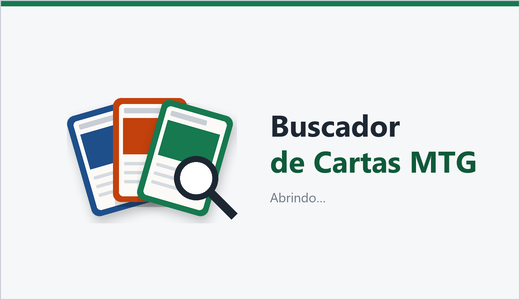
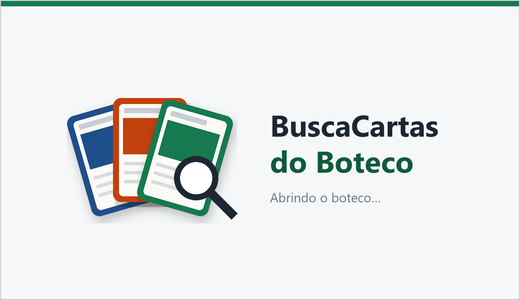
Novo nome: BuscaCartas do Boteco
Título da janela, BuscaCartas.exe, tela de abertura e documentação com o
nome novo. A pasta de dados do .exe passa a ser %APPDATA%\BuscaCartas, com
cópia automática de lojas.json e config.json da pasta antiga BuscadorMTG.

Changed region(s): [[0.5538, 0.48, 0.9231, 0.6], [0.6769, 0.36, 0.8615, 0.48], [0.6154, 0.63, 0.7385, 0.69]]

diff --git a/buscador/web/pagina/app.js b/buscador/web/pagina/app.js
@@ -1,5 +1,5 @@
 "use strict";
-/* Tela do Buscador de Cartas MTG. O Python (buscador/web/ponte.py) faz as buscas; aqui só se
+/* Tela do BuscaCartas do Boteco. O Python (buscador/web/ponte.py) faz as buscas; aqui só se
    desenha a tela e se guarda o estado dela (o que está aberto, histórico Voltar/Avançar).
    Acontecimentos da busca chegam por app.evento(tipo, sid, dados); os de uma busca antiga
    (sid diferente) são ignorados. */

diff --git a/buscador/web/pagina/index.html b/buscador/web/pagina/index.html
@@ -2,7 +2,7 @@
 <html lang="pt-BR">
 <head>
 <meta charset="utf-8">
-<title>Buscador de Cartas MTG</title>
+<title>BuscaCartas do Boteco</title>
 <link rel="stylesheet" href="estilo.css">
 </head>
 <body>

diff --git a/buscador/config.py b/buscador/config.py
@@ -51,17 +51,21 @@ MAX_ITEMS_PER_STORE = 8
 DATA_FILES = ("lojas.json", "config.json")
 
 
-def user_data_dir():
-    """Pasta de dados do usuário no Windows: %APPDATA%/BuscadorMTG."""
+DATA_DIR_NAME = "BuscaCartas"
+OLD_DATA_DIR_NAME = "BuscadorMTG"  # nome da pasta até a versão 1.0.0
+
+
+def user_data_dir(name=DATA_DIR_NAME):
+    """Pasta de dados do usuário no Windows: %APPDATA%/BuscaCartas."""
     base = os.environ.get("APPDATA") or os.path.expanduser("~")
-    return os.path.join(base, "BuscadorMTG")
+    return os.path.join(base, name)
 
 
 def app_dir():
     """Pasta onde o programa guarda lojas.json, config.json e debug/.
 
     - Pelo código-fonte: a pasta do projeto (a de cima de buscador/), como sempre foi.
-    - No .exe (PyInstaller): %APPDATA%/BuscadorMTG. Assim o .exe funciona de qualquer lugar
+    - No .exe (PyInstaller): %APPDATA%/BuscaCartas. Assim o .exe funciona de qualquer lugar
       (Downloads, Área de Trabalho, de dentro de um zip) e as lojas e preferências continuam
       ao trocar por uma versão nova."""
     if getattr(sys, "frozen", False):
@@ -71,8 +75,9 @@ def app_dir():
 
 
 def migrate_from_exe_folder(exe_dir, data_dir):
-    """Até a versão 0.3.0 o .exe guardava lojas.json e config.json ao lado dele. Se a pasta de
-    dados ainda não tem esses arquivos e a pasta do .exe tem, copia (não apaga os antigos)."""
+    """Copia lojas.json e config.json de uma pasta antiga para a pasta de dados, se a pasta de dados
+    ainda não tem esses arquivos (não apaga os antigos). Usada para %APPDATA%/BuscadorMTG (nome
+    antigo, até a 1.0.0) e para a pasta do .exe (até a 0.3.0 os arquivos ficavam ao lado dele)."""
     try:
         os.makedirs(data_dir, exist_ok=True)
         for name in DATA_FILES:
@@ -84,6 +89,7 @@ def migrate_from_exe_folder(exe_dir, data_dir):
 
 
 if getattr(sys, "frozen", False):
+    migrate_from_exe_folder(user_data_dir(OLD_DATA_DIR_NAME), app_dir())
     migrate_from_exe_folder(os.path.dirname(sys.executable), app_dir())
 
 CONFIG_FILE = os.path.join(app_dir(), "lojas.json")

diff --git a/instalador/gerar_exe.py b/instalador/gerar_exe.py
@@ -1,17 +1,17 @@
-"""Gera o programa para Windows (BuscadorMTG.exe), um arquivo único para publicar nas versões do GitHub.
+"""Gera o programa para Windows (BuscaCartas.exe), um arquivo único para publicar nas versões do GitHub.
 
 Uso (na pasta do projeto):
     py -m pip install -r instalador/requirements.txt
     py instalador/gerar_exe.py
 
-Resultado: dist/BuscadorMTG.exe, o arquivo publicado na página de versões do GitHub.
+Resultado: dist/BuscaCartas.exe, o arquivo publicado na página de versões do GitHub.
 
 Arquivo único (--onefile): a pessoa baixa e abre, de qualquer lugar, sem descompactar nada.
 Custo: abre uns segundos mais devagar, porque se descompacta numa pasta temporária a cada uso.
 Até a versão 0.3.0 era uma pasta num .zip, e quem abria o .exe de dentro do zip (sem a pasta
 _internal) via só uma janela de erro.
 
-O .exe grava lojas.json, config.json e debug/ em %APPDATA%/BuscadorMTG (ver config.app_dir).
+O .exe grava lojas.json, config.json e debug/ em %APPDATA%/BuscaCartas (ver config.app_dir).
 """
 
 import os
@@ -22,7 +22,7 @@ sys.path.insert(0, RAIZ)
 
 from buscador import __version__  # noqa: E402
 
-NOME = "BuscadorMTG"
+NOME = "BuscaCartas"
 BUILD = os.path.join(RAIZ, "build")
 DIST = os.path.join(RAIZ, "dist")
 
@@ -36,8 +36,8 @@ def arquivo_de_versao():
                     fileType=0x1, subtype=0x0, date=(0, 0)),
   kids=[
     StringFileInfo([StringTable('041604B0', [
-      StringStruct('ProductName', 'Buscador de Cartas MTG'),
-      StringStruct('FileDescription', 'Buscador de Cartas MTG'),
+      StringStruct('ProductName', 'BuscaCartas do Boteco'),
+      StringStruct('FileDescription', 'BuscaCartas do Boteco'),
       StringStruct('ProductVersion', '{__version__}'),
       StringStruct('FileVersion', '{__version__}'),
       StringStruct('OriginalFilename', '{NOME}.exe'),

diff --git a/tests/test_config.py b/tests/test_config.py
@@ -1,4 +1,4 @@
-"""Pasta de dados: projeto quando roda pelo código-fonte, %APPDATA%/BuscadorMTG no .exe."""
+"""Pasta de dados: projeto quando roda pelo código-fonte, %APPDATA%/BuscaCartas no .exe."""
 
 import os
 import sys
@@ -14,7 +14,7 @@ def test_pelo_codigo_fonte_usa_a_pasta_do_projeto():
 def test_no_exe_usa_a_pasta_de_dados_do_usuario(monkeypatch, tmp_path):
     monkeypatch.setattr(sys, "frozen", True, raising=False)
     monkeypatch.setenv("APPDATA", str(tmp_path))
-    assert config.app_dir() == os.path.join(str(tmp_path), "BuscadorMTG")
+    assert config.app_dir() == os.path.join(str(tmp_path), "BuscaCartas")
 
 
 def test_migra_os_arquivos_que_ficavam_ao_lado_do_exe(tmp_path):
@@ -35,3 +35,17 @@ def test_migracao_nao_sobrescreve_dados_existentes(tmp_path):
     (dados / "lojas.json").write_text("atual", encoding="utf-8")
     config.migrate_from_exe_folder(str(exe), str(dados))
     assert (dados / "lojas.json").read_text(encoding="utf-8") == "atual"
+
+
+def test_migra_da_pasta_com_o_nome_antigo(monkeypatch, tmp_path):
+    monkeypatch.setenv("APPDATA", str(tmp_path))
+    antiga = tmp_path / "BuscadorMTG"
+    antiga.mkdir()
+    (antiga / "lojas.json").write_text("minhas lojas", encoding="utf-8")
+    (antiga / "config.json").write_text("minhas preferências", encoding="utf-8")
+    nova = config.user_data_dir()
+    assert nova == os.path.join(str(tmp_path), "BuscaCartas")
+    config.migrate_from_exe_folder(config.user_data_dir(config.OLD_DATA_DIR_NAME), nova)
+    assert (tmp_path / "BuscaCartas" / "lojas.json").read_text(encoding="utf-8") == "minhas lojas"
+    assert (tmp_path / "BuscaCartas" / "config.json").read_text(encoding="utf-8") == "minhas preferências"
+    assert (antiga / "lojas.json").exists()  # a pasta antiga fica, para quem voltar à versão anterior

diff --git a/instalador/desenhar_abertura.py b/instalador/desenhar_abertura.py
@@ -68,9 +68,9 @@ def main():
 
     # textos
     x = 270 * ESCALA
-    d.text((x, 104 * ESCALA), "Buscador", font=fonte(30, True), fill=TEXTO)
-    d.text((x, 140 * ESCALA), "de Cartas MTG", font=fonte(30, True), fill=VERDE_ESCURO)
-    d.text((x, 188 * ESCALA), "Abrindo…", font=fonte(13), fill=CINZA)
+    d.text((x, 104 * ESCALA), "BuscaCartas", font=fonte(30, True), fill=TEXTO)
+    d.text((x, 140 * ESCALA), "do Boteco", font=fonte(30, True), fill=VERDE_ESCURO)
+    d.text((x, 188 * ESCALA), "Abrindo o boteco…", font=fonte(13), fill=CINZA)
 
     d.rectangle((0, 0, L * ESCALA - 1, A * ESCALA - 1), outline="#c9ced6", width=ESCALA)  # borda: a tela não tem moldura
     img = img.resize((L, A), Image.LANCZOS).convert("RGB")

diff --git a/buscador/scryfall.py b/buscador/scryfall.py
@@ -12,7 +12,7 @@ except ImportError:  # sem a biblioteca a busca interna fica desligada (ver rede
 from buscador.texto import norm, strip_suffix
 
 
-SCRY_HEADERS = {"User-Agent": "BuscadorMTG/1.0", "Accept": "application/json;q=0.9,*/*;q=0.8"}
+SCRY_HEADERS = {"User-Agent": "BuscaCartas/1.0", "Accept": "application/json;q=0.9,*/*;q=0.8"}
 SCRY_API = "https://api.scryfall.com"
 
 

diff --git a/buscador_mtg.py b/buscador_mtg.py
@@ -1,5 +1,5 @@
 """
-Buscador de Cartas Magic: The Gathering
+BuscaCartas do Boteco: busca cartas de Magic: The Gathering nas lojas
 ---------------------------------------
 Digite o nome da carta, escolha as lojas e veja num só lugar quais têm a carta
 e por quanto. Funciona com lojas no padrão LigaMagic.

diff --git a/buscador/web/app.py b/buscador/web/app.py
@@ -5,7 +5,7 @@ import sys
 
 from buscador.web.ponte import Ponte
 
-TITULO = "Buscador de Cartas MTG"
+TITULO = "BuscaCartas do Boteco"
 
 
 def pasta_da_pagina():

diff --git a/buscador/__init__.py b/buscador/__init__.py
@@ -1,3 +1,3 @@
-"""Buscador de Cartas MTG."""
+"""BuscaCartas do Boteco: busca cartas de Magic nas lojas."""
 
 __version__ = "1.0.0"

diff --git a/docs/ROTEIRO.md b/docs/ROTEIRO.md
@@ -68,7 +68,11 @@
   - **Tela de abertura**: o `.exe` levava ~2,2 s até mostrar a janela, sem nada na tela nesse tempo (descompactação). Agora a tela de abertura do PyInstaller (`--splash`, imagem `instalador/abertura.png`, desenhada por `instalador/desenhar_abertura.py`: leque de cartas, lupa e "Abrindo…") aparece ~0,4 s depois do clique e some quando a página da janela termina de carregar (`web/app.py`, `pyi_splash.close` no evento `loaded`). Custo medido: a janela passou a aparecer em ~2,45 s (+0,3 s), porque o `.exe` descompacta o Tcl/Tk da tela de abertura. A imagem é parada (o PyInstaller não anima); a animação vem na janela: na tela inicial, o mesmo leque com as cartas se abrindo e a lupa passando por elas (~1,6 s, uma vez só; respeita "reduzir movimento" do Windows). Na primeira vez que um `.exe` novo é aberto, o antivírus pode atrasar tudo (medido: abertura em 2,7 s e janela em 5 s).
   - **Interface antiga removida** (Tkinter, `buscador/interface/`), depois da aprovação da nova; saíram também as funções de texto que só ela usava (`money`, `age_text`, `preorder_text`, `offer_desc`) e `DETAIL_W`. Sem o pywebview, o programa avisa o que instalar e não abre.
 - **Imagem de apresentação**: montar uma imagem (ou algumas) simulando uma busca, com as funções principais e as etiquetas indicadas (qualidades, Foil, promoção, pré-venda, observação, bandeiras, cores das lojas), para mostrar à comunidade como o programa funciona. Pode servir também no README e na página de versões.
-- **Nome do aplicativo**: escolher um nome melhor que "Buscador de Cartas MTG". Ideias de partida: um trocadilho com "Botechi" ou com o "Boteco de Pedidos" (o esquema de pedidos da comunidade). Ao trocar, atualizar título da janela, nome do `.exe` (`NOME` em `instalador/gerar_exe.py`), pasta em `%APPDATA%` (migrar a antiga), README e repositório.
+- **Nome do aplicativo**: feito (ramificação `nome-buscacartas`). O programa passou a se chamar **BuscaCartas do Boteco** (curto: **BuscaCartas**), em referência ao "Boteco de Pedidos", o aviso de pedidos da comunidade. Escolhido junto e no plural, com "Cartas" em português, para parecer nome próprio e dizer o que o programa faz; "Magic" e "MTG" ficam fora do nome (marcas da Wizards). Pesquisa na internet em nov/2026: nenhum site ou programa com "BuscaCartas" nem "BuscaCartas do Boteco".
+  - Mudou: título da janela e da página, `BuscaCartas.exe` (nome e propriedades do arquivo), tela de abertura ("BuscaCartas / do Boteco / Abrindo o boteco…"), identificação nas consultas ao Scryfall, documentação e o repositório no GitHub (`buscacartas-do-boteco`; o GitHub redireciona o endereço antigo).
+  - Pasta de dados do `.exe`: `%APPDATA%\BuscaCartas`. Na primeira vez, o programa copia `lojas.json` e `config.json` de `%APPDATA%\BuscadorMTG` (sem apagar a pasta antiga, para quem voltar a uma versão anterior). A pasta `debug/` não é copiada.
+  - Ficou como estava: o pacote `buscador/` e o ponto de entrada `buscador_mtg.py` (nomes internos).
+  - Pendente: ícone próprio; decoração no tema de balcão de boteco (a discutir com o dono).
 - Busca inteligente que tolere erro de digitação: avisar que o nome parece errado, sugerir o certo (como o Google) e pesquisar mesmo assim. Incluir o caso de nome ambíguo em "Apenas nome exato" (ex.: "Thalia"): avisar que há várias cartas e sugerir os nomes completos (o Scryfall já informa a ambiguidade).
 - Tutorial dentro do aplicativo, para ensinar a usar.
 - Pesquisar uma lista inteira de cartas: aceitar um nome por linha e formatos como `1 Sol Ring` e `4x Island`. Exige ritmo mais lento (uma lista de 30 cartas em 4 lojas são 120 buscas) e talvez sem detalhes automáticos; mostrar por loja quantas cartas da lista ela tem.

diff --git a/CLAUDE.md b/CLAUDE.md
@@ -1,9 +1,11 @@
-# Buscador de Cartas MTG: guia para o Claude Code
+# BuscaCartas do Boteco: guia para o Claude Code
 
 Este arquivo é lido no início de cada sessão. Explica o projeto, as decisões já tomadas e as regras de trabalho.
 O roteiro de melhorias e o histórico de decisões estão em `docs/ROTEIRO.md`.
 
 ## O que é
+
+O nome **BuscaCartas do Boteco** (curto: BuscaCartas) vem do "Boteco de Pedidos", o aviso de pedidos da comunidade; até a 1.0.0 era "Buscador de Cartas MTG". O pacote continua `buscador/` e o ponto de entrada `buscador_mtg.py`. "Magic" e "MTG" (marcas da Wizards) ficam fora do nome, só em subtítulos e descrições.
 
 Programa de computador (Windows, Python, com a tela em HTML numa janela do pywebview) que busca cartas de **Magic: The Gathering** em várias lojas ao mesmo tempo.
 A pessoa digita o nome da carta, marca as lojas e vê em quais há estoque, com edições, idioma, qualidade e preço.
@@ -25,7 +27,7 @@ Python 3.10 ou mais novo. Dependências: `requests`, `beautifulsoup4` (o app abr
 As importações dentro do pacote são absolutas (`from buscador.config import ...`).
 
 1. **`config.py`**: lojas padrão (`DEFAULT_STORES`), modelo da URL de busca (`SEARCH_PATH`), constantes de limites (`AUTO_*`, `BLOCK_COOLDOWN`, `CACHE_TTL`, `HISTORY_MAX`, `STALE_AFTER`) e `app_dir()` (pasta do programa, que é a pasta *acima* de `buscador/`, ou a do `.exe`).
-2. **`armazenamento.py`**: `lojas.json` (lojas, seleção e, se a pessoa arrastou, a ordem: `manual_order`) e `config.json` (preferências), na pasta de `app_dir()` (projeto pelo código-fonte; `%APPDATA%\BuscadorMTG` no `.exe`); `normalize_base`, `host_key`.
+2. **`armazenamento.py`**: `lojas.json` (lojas, seleção e, se a pessoa arrastou, a ordem: `manual_order`) e `config.json` (preferências), na pasta de `app_dir()` (projeto pelo código-fonte; `%APPDATA%\BuscaCartas` no `.exe`, com cópia automática da pasta antiga `%APPDATA%\BuscadorMTG`); `normalize_base`, `host_key`.
 3. **`modelos.py`**: `Item`, `StoreResult`, `Offer`.
 4. **`texto.py`**: `norm`, `clean_card_name`, `strip_suffix`.
 5. **`lojas/ligamagic.py`**: só leitura de HTML, **sem requisições**: `build_search_url`, `parse_results`, `product_from_page`, `parse_product_page` (edição, idioma, qualidade, extras, estoque, preço, promoção e observação da loja), `theme_color` e `theme_logo` (cor principal e logo do site) e os marcadores de bloqueio/sem resultado. Uma loja de outro padrão ganha um módulo próprio em `lojas/`.
@@ -36,7 +38,7 @@ As importações dentro do pacote são absolutas (`from buscador.config import .
 
 Só `web/` usa o pywebview (sem ele, o programa avisa e não abre).
 
-Fora do pacote: `instalador/gerar_exe.py` gera o `BuscadorMTG.exe` (PyInstaller, arquivo único, com a tela de abertura `instalador/abertura.png`, que `instalador/desenhar_abertura.py` desenha; o `--splash` precisa do Tkinter no Python que gera o `.exe`) publicado nas versões do GitHub (`py instalador/gerar_exe.py`, resultado em `dist/`, que não é versionado). Licença MIT (`LICENSE`).
+Fora do pacote: `instalador/gerar_exe.py` gera o `BuscaCartas.exe` (PyInstaller, arquivo único, com a tela de abertura `instalador/abertura.png`, que `instalador/desenhar_abertura.py` desenha; o `--splash` precisa do Tkinter no Python que gera o `.exe`) publicado nas versões do GitHub (`py instalador/gerar_exe.py`, resultado em `dist/`, que não é versionado). Licença MIT (`LICENSE`).
 
 ## Regras de funcionamento a preservar
 
